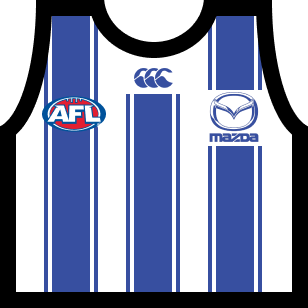
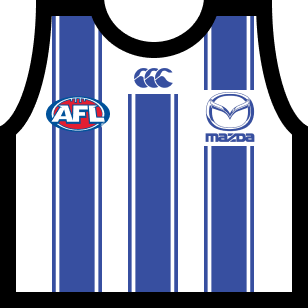
updated kangaroos kits and port kit swapping

diff --git a/docs/js/main.min.js b/docs/js/main.min.js
@@ -1,1 +1,1 @@
-function scroll(){$(window).on("scroll",function(){$(this).scrollTop()>=$(".c-fixture__round").offset().top-500?$(".js-scrollto-fixture").addClass("is-hidden"):$(".js-scrollto-fixture").removeClass("is-hidden")}),$(".js-scrollto-fixture").on("click",function(){$("html, body").animate({scrollTop:$(".js-game-pregame").offset().top-36},{duration:400,specialEasing:"easeInOut"})}),$(".c-fixture__game").each(function(){$(this).hasClass("c-fixture__game--in-progress")&&($(".js-scrollto-fixture").addClass("has-live"),$(".js-scrollto-fixture").on("click",function(){$("html, body").animate({scrollTop:$(".c-fixture__game--in-progress").offset().top-36},{duration:400,specialEasing:"easeInOut"})}))})}function dataFixture(e){$.getJSON("https://statsapi.foxsports.com.au/3.0/api/sports/afl/series/1/seasons/124/fixturesandresults.json?userkey=6B2F4717-A97C-49F6-8514-3600633439B9",function(e){console.log("fixture loaded"),console.log(e);var s=new Date,a=(new Date("2018-04-24"),[]),t=roundCalc(s);for($(".js-fixture-round").text(t),i=0;i<e.length;i++){const m=e[i];m.round.number==t&&a.push(m)}console.log(a);a[8];for(i=0;i<a.length;i++){const m=a[i];fixtureItem(m)}})}function dataLadder(){$.getJSON("https://statsapi.foxsports.com.au/3.0/api/sports/afl/series/1/seasons/123/ladder.json?userkey=6B2F4717-A97C-49F6-8514-3600633439B9",function(e){$(".c-ladder__round");for(console.log(e),i=0;i<e.teams.length;i++){ladderItem(e.teams[i],i+1)}})}function dateTime(e){var s=new Date(e),a=s.getDate();return{day:function(e){var s=e.getDay();return 0==s?"Sunday":1==s?"Monday":2==s?"Tuesday":3==s?"Wednesday":4==s?"Thursday":5==s?"Friday":6==s?"Saturday":void 0}(s),month:function(e){var s=e.getMonth();return 0==s?"Jan":1==s?"Feb":2==s?"Mar":3==s?"Apr":4==s?"May":5==s?"Jun":6==s?"Jul":7==s?"Aug":8==s?"Sep":9==s?"Oct":10==s?"Nov":11==s?"Dec":void 0}(s),date:a,time:function(e){return e.getHours()+":"+("0"+e.getMinutes()).slice(-2)}(s)}}function finals(e){function s(e,s){var a=s,t=dateTime(a.match_start_date),m=e.children(".c-date"),i=e.children(".js-fixture-team-1"),n=e.children(".js-fixture-team-2"),r=e.children(".js-fixture-venue");"Pre Game"==a.match_status?(m.children(".c-date__day").text(t.day),m.children(".c-date__month").text(t.month),m.children(".c-date__date").text(t.date),m.children(".c-date__time").text(t.time)):"Full Time"==a.match_status?(e.addClass("full-time"),m.children(".c-date__day").text(t.day),m.children(".c-date__month").text(t.month),m.children(".c-date__date").text(t.date),m.children(".c-date__time").text("FT")):(e.addClass("live"),m.append('<span class="c-date__live">LIVE</span><span class="c-date__status">'+a.match_status+'</span><span class="c-date__played-time">'+a.match_time+"</span>")),i.children(".js-team-img").attr("src",homeKit(a.team_A.code)),i.children(".js-team-text").text(teamAbrev(a.team_A.code,a.team_A.name)),"Pre Game"!==a.match_status&&i.children(".js-score-text").text("").append(a.team_A.goals+". "+a.team_A.behinds+'. <span class="c-fixture__score-total">'+a.team_A.score+"</span>"),n.children(".js-team-img").attr("src",awayKit(a.team_B.code,a.team_A.code)),n.children(".js-team-text").text(teamAbrev(a.team_B.code,a.team_B.name)),"Pre Game"!==a.match_status&&n.children(".js-score-text").text("").append(a.team_B.goals+". "+a.team_B.behinds+'. <span class="c-fixture__score-total">'+a.team_B.score+"</span>"),r.text(a.venue.name)}function a(e){return"post"==e.match_status_normalised&&e.team_A.score>e.team_B.score?{name:teamAbrev(e.team_A.code),bg:team_bg(e.team_A.code)}:"post"==e.match_status_normalised&&e.team_B.score>e.team_A.score?{name:teamAbrev(e.team_B.code),bg:team_bg(e.team_B.code)}:{name:"?",bg:"img/teams/"}}console.log(e);var t=e[8];$(".js-finals-series-year").text(e[0].season.year),$(".js-premiership-year").text(e[0].season.year),s($(".js-finals-qf1"),e[1]),s($(".js-finals-qf2"),e[3]),s($(".js-finals-ef1"),e[0]),s($(".js-finals-ef2"),e[2]),s($(".js-finals-sf1"),e[4]),s($(".js-finals-sf2"),e[5]),s($(".js-finals-pf1"),e[7]),s($(".js-finals-pf2"),e[6]),s($(".js-finals-gf"),t),$(".js-premiers-name").text(a(t).name),$(".js-premiers-bg").css({"background-image":"url("+a(t).bg+")","background-size":"cover"})}function fixtureItem(e){var s=dateTime(e.match_start_date),a=e.match_status;"Pre Game"==a?$(".js-fixture").before('<div class="c-fixture__game js-game-pregame"><div class= "c-fixture__date c-date" ><span class="c-date__day">'+s.day+'</span><span class="c-date__month">'+s.month+'</span><span class="c-date__date">'+s.date+'</span><span class="c-date__time">'+s.time+'</span></div ><div class="c-fixture__team js-fixture-team-1"><img class="js-team-img" src="'+homeKit(e.team_A.code)+'" /><span class="js-team-text">'+teamAbrev(e.team_A.code)+'</span><span class="c-fixture__score js-score-text">-</span></div><div class="c-fixture__vs">vs</div><div class="c-fixture__team js-fixture-team-2"><img class="js-team-img" src="'+awayKit(e.team_B.code,e.team_A.code)+'" /><span class="js-team-text">'+teamAbrev(e.team_B.code)+'</span><span class="c-fixture__score js-score-text">-</span></div><div class="c-fixture__venue js-fixture-venue">'+e.venue.name+"</div></div>"):"Full Time"==a?$(".js-fixture").before('<div class="c-fixture__game c-fixture__game--completed"><div class= "c-fixture__date c-date" ><span class="c-date__day">'+s.day+'</span><span class="c-date__month">'+s.month+'</span><span class="c-date__date">'+s.date+'</span><span class="c-date__time">FT</span></div ><div class="c-fixture__team js-fixture-team-1"><img class="js-team-img" src="'+homeKit(e.team_A.code)+'" /><span class="js-team-text">'+teamAbrev(e.team_A.code)+'</span><span class="c-fixture__score js-score-text">'+e.team_A.goals+". "+e.team_A.behinds+'. <span class="c-fixture__score-total">'+e.team_A.score+'</span></span></div><div class="c-fixture__vs">vs</div><div class="c-fixture__team js-fixture-team-2"><img class="js-team-img" src="'+awayKit(e.team_B.code,e.team_A.code)+'" /><span class="js-team-text">'+teamAbrev(e.team_B.code)+'</span><span class="c-fixture__score js-score-text">'+e.team_B.goals+". "+e.team_B.behinds+'. <span class="c-fixture__score-total">'+e.team_B.score+'</span></span></div><div class="c-fixture__venue js-fixture-venue">'+e.venue.name+"</div></div>"):$(".js-fixture").before('<div class="c-fixture__game c-fixture__game--in-progress"><div class= "c-fixture__date c-date" ><span class="c-date__live">LIVE</span><span class="c-date__status">'+a+'</span><span class="c-date__time">'+e.match_time+'</span></div ><div class="c-fixture__team js-fixture-team-1"><img class="js-team-img" src="'+homeKit(e.team_A.code)+'" /><span class="js-team-text">'+teamAbrev(e.team_A.code)+'</span><span class="c-fixture__score js-score-text">'+e.team_A.goals+". "+e.team_A.behinds+'. <span class="c-fixture__score-total">'+e.team_A.score+'</span></span></div><div class="c-fixture__vs">vs</div><div class="c-fixture__team js-fixture-team-2"><img class="js-team-img" src="'+awayKit(e.team_B.code,e.team_A.code)+'" /><span class="js-team-text">'+teamAbrev(e.team_B.code)+'</span><span class="c-fixture__score js-score-text">'+e.team_B.goals+". "+e.team_B.behinds+'. <span class="c-fixture__score-total">'+e.team_B.score+'</span></span></div><div class="c-fixture__venue js-fixture-venue">'+e.venue.name+"</div></div>")}function homeKit(e){var s=e;return"ADE"==s?"img/teams/crows-home.png":"BRI"==s?"img/teams/lions-home.png":"CAR"==s?"img/teams/blues-home.png":"COL"==s?"img/teams/magpies-home.png":"ESS"==s?"img/teams/bombers-home.png":"FRE"==s?"img/teams/dockers-home.png":"GEE"==s?"img/teams/cats-home.png":"GCS"==s?"img/teams/suns-home.png":"GWS"==s?"img/teams/gws-home.png":"HAW"==s?"img/teams/hawks-home.png":"MEL"==s?"img/teams/demons-home.png":"NM"==s?"img/teams/kangaroos-home.png":"POR"==s?"img/teams/port-home.png":"RIC"==s?"img/teams/tigers-home.png":"STK"==s?"img/teams/saints-home.png":"SYD"==s?"img/teams/swans-home.png":"WCE"==s?"img/teams/eagles-home.png":"WBD"==s?"img/teams/dogs-home.png":void 0}function awayKit(e,s){var a=e;return"ADE"==a?"GEE"==s||"SYD"==s?"img/teams/crows-home.png":"img/teams/crows-away.png":"BRI"==a?"SYD"==s||"GWS"==s||"GCS"==s||"WCE"==s||"ADE"==s||"FRE"==s||"POR"==s?"img/teams/lions-clash.png":"img/teams/lions-away.png":"CAR"==a?"GEE"==s||"SYD"==s||"HAW"==s||"GCS"==s?"img/teams/blues-home.png":"img/teams/blues-clash.png":"COL"==a?"GEE"==s?"img/teams/magpies-home.png":"img/teams/magpies-clash.png":"ESS"==a?"MEL"==s||"COL"==s||"CAR"==s||"POR"==s||"STK"==s||"RIC"==s?"img/teams/bombers-clash.png":"img/teams/bombers-home.png":"FRE"==a?"img/teams/dockers-away.png":"GEE"==a?"img/teams/cats-home.png":"GCS"==a?"WBD"==s||"CAR"==s||"FRE"==s||"NM"==s||"WCE"==s?"img/teams/suns-home.png":"img/teams/suns-away.png":"GWS"==a?"SYD"==s?"img/teams/gws-home.png":"img/teams/gws-away.png":"HAW"==a?"img/teams/hawks-away.png":"MEL"==a?"img/teams/demons-clash.png":"NM"==a?"img/teams/kangaroos-clash.png":"POR"==a?"GEE"==s||"SYD"==s||"COL"==s||"NM"==s?"img/teams/port-clash.png":"img/teams/port-away.png":"RIC"==a?"img/teams/tigers-away.png":"STK"==a?"img/teams/saints-away.png":"SYD"==a?"img/teams/swans-home.png":"WCE"==a?"HAW"==s?"img/teams/eagles-home.png":"img/teams/eagles-away.png":"WBD"==a?"GEE"==s||"SYD"==s?"img/teams/dogs-home.png":"img/teams/dogs-away.png":void 0}function ladderItem(e,s){$(".c-ladder__item-"+s+" div.c-ladder__team").children("span").text(teamAbrev(e.code)),$(".c-ladder__item-"+s+" div.c-ladder__team").children("img").attr("src",teamImg(e.code)),$(".c-ladder__item-"+s+" div.c-ladder__played").text(e.stats.played),$(".c-ladder__item-"+s+" div.c-ladder__wins").text(e.stats.won),$(".c-ladder__item-"+s+" div.c-ladder__draws").text(e.stats.drawn),$(".c-ladder__item-"+s+" div.c-ladder__losses").text(e.stats.lost),$(".c-ladder__item-"+s+" div.c-ladder__points-for").text(e.stats.for),$(".c-ladder__item-"+s+" div.c-ladder__points-against").text(e.stats.against),$(".c-ladder__item-"+s+" div.c-ladder__percentage").text(e.stats.percentage),$(".c-ladder__item-"+s+" div.c-ladder__points").text(e.stats.points)}function roundCalc(e){var s=new Date(e),a=s.getMonth(),t=s.getDate();return 0==a||1==a&&t<=28||2==a&&t<=25?1:2==a&&t<=31?2:3==a&&t<=8?3:3==a&&t<=15?4:3==a&&t<=25?5:3==a&&t<=29?6:3==a&&t<=31||4==a&&t<=6?7:4==a&&t<=13?8:4==a&&t<=20?9:4==a&&t<=27?10:4==a&&t<=31||5==a&&t<=3?11:5==a&&t<=11?12:5==a&&t<=17?13:5==a&&t<=24?14:5==a&&t<=31||6==a&&t<=1?15:6==a&&t<=8?16:6==a&&t<=15?17:6==a&&t<=22?18:6==a&&t<=29?19:6==a&&t<=31||7==a&&t<=5?20:7==a&&t<=12?21:7==a&&t<=19?22:7==a&&t<=23?23:8==a?23:void 0}function teamAbrev(e,s){var a=e;return"ADE"==a?"Adelaide":"BRI"==a?"Brisbane":"CAR"==a?"Carlton":"COL"==a?"Collingwood":"ESS"==a?"Essendon":"WBD"==a?"W. Bulldogs":"FRE"==a?"Fremantle":"GEE"==a?"Geelong":"GCS"==a?"Gold Coast":"GWS"==a?"Gr. W. Sydney":"HAW"==a?"Hawthorn":"MEL"==a?"Melbourne":"NM"==a?"N. Melbourne":"POR"==a?"Port Adelaide":"RIC"==a?"Richmond":"STK"==a?"St. Kilda":"SYD"==a?"Sydney":"WCE"==a?"West Coast":s}function team_bg(e){return"ADE"==e?"img/teams/crows.svg":"BRI"==e?"img/teams/lions.svg":"CAR"==e?"img/teams/blues.svg":"COL"==e?"img/teams/magpies.svg":"ESS"==e?"img/teams/bombers.svg":"FRE"==e?"img/teams/dockers.svg":"GEE"==e?"img/teams/cats.svg":"GCS"==e?"img/teams/suns.svg":"GWS"==e?"img/teams/gws.svg":"HAW"==e?"img/teams/hawks.svg":"MEL"==e?"img/teams/demons.svg":"NM"==e?"img/teams/kangaroos.svg":"POR"==e?"img/teams/port.svg":"RIC"==e?"img/teams/tigers.svg":"STK"==e?"img/teams/saints.svg":"SYD"==e?"img/teams/swans.svg":"WCE"==e?"img/teams/eagles.svg":"WBD"==e?"img/teams/dogs.svg":void 0}function teamImg(e){return"ADE"==e?"img/teams/crows.png":"BRI"==e?"img/teams/lions.png":"CAR"==e?"img/teams/blues.png":"COL"==e?"img/teams/magpies.png":"ESS"==e?"img/teams/bombers.png":"FRE"==e?"img/teams/dockers.png":"GEE"==e?"img/teams/cats.png":"GCS"==e?"img/teams/suns.png":"GWS"==e?"img/teams/gws.png":"HAW"==e?"img/teams/hawks.png":"MEL"==e?"img/teams/demons.png":"NM"==e?"img/teams/kangaroos.png":"POR"==e?"img/teams/port.png":"RIC"==e?"img/teams/tigers.png":"STK"==e?"img/teams/saints.png":"SYD"==e?"img/teams/swans.png":"WCE"==e?"img/teams/eagles.png":"WBD"==e?"img/teams/dogs.png":void 0}function vertCenter(e,s){var a=e.parent().height();e.css({height:a+"px","line-height":a+"px"}),e.children(s).css({height:e.children(s).height(),"padding-top":(a-e.children(s).height())/2+"px","padding-bottom":(a-e.children(s).height())/2+"px"})}function clearStyles(e,s){e.attr("style",""),s.attr("style","")}dataLadder(),dataFixture();var ladder=function(){var e=$('.c-ladder__team:contains("Greater Western Sydney")');e.children("span").text("GWS"),e.children("img").attr("src","img/teams/gws.svg"),$('.c-ladder__team:contains("Hawthorn")').children("img").attr("src","img/teams/hawks.svg"),$('.c-ladder__team:contains("Gold Coast")').children("img").attr("src","img/teams/suns.svg"),$('.c-ladder__team:contains("Sydney")').children("img").attr("src","img/teams/swans.svg"),$('.c-ladder__team:contains("St Kilda")').children("img").attr("src","img/teams/saints.svg"),$('.c-ladder__team:contains("Richmond")').children("img").attr("src","img/teams/tigers.svg"),$('.c-ladder__team:contains("Essendon")').children("img").attr("src","img/teams/bombers.svg"),$('.c-ladder__team:contains("Geelong")').children("img").attr("src","img/teams/cats.svg"),$('.c-ladder__team:contains("Melbourne")').children("img").attr("src","img/teams/demons.svg"),$('.c-ladder__team:contains("Adelaide")').children("img").attr("src","img/teams/crows.svg"),$('.c-ladder__team:contains("Carlton")').children("img").attr("src","img/teams/blues.svg"),$('.c-ladder__team:contains("Port Adelaide")').children("img").attr("src","img/teams/port.svg"),$('.c-ladder__team:contains("Brisbane")').children("img").attr("src","img/teams/lions.svg"),$('.c-ladder__team:contains("West Coast")').children("img").attr("src","img/teams/eagles.svg"),$('.c-ladder__team:contains("North Melbourne")').children("img").attr("src","img/teams/kangaroos.svg"),$('.c-ladder__team:contains("Collingwood")').children("img").attr("src","img/teams/magpies.svg"),$('.c-ladder__team:contains("Fremantle")').children("img").attr("src","img/teams/dockers.svg"),$('.c-ladder__team:contains("Bulldogs")').children("img").attr("src","img/teams/dogs.svg")};$(window).on("resize",function(){});
+function scroll(){$(window).on("scroll",function(){$(this).scrollTop()>=$(".c-fixture__round").offset().top-500?$(".js-scrollto-fixture").addClass("is-hidden"):$(".js-scrollto-fixture").removeClass("is-hidden")}),$(".js-scrollto-fixture").on("click",function(){$("html, body").animate({scrollTop:$(".js-game-pregame").offset().top-36},{duration:400,specialEasing:"easeInOut"})}),$(".c-fixture__game").each(function(){$(this).hasClass("c-fixture__game--in-progress")&&($(".js-scrollto-fixture").addClass("has-live"),$(".js-scrollto-fixture").on("click",function(){$("html, body").animate({scrollTop:$(".c-fixture__game--in-progress").offset().top-36},{duration:400,specialEasing:"easeInOut"})}))})}function dataFixture(e){$.getJSON("https://statsapi.foxsports.com.au/3.0/api/sports/afl/series/1/seasons/124/fixturesandresults.json?userkey=6B2F4717-A97C-49F6-8514-3600633439B9",function(e){console.log("fixture loaded"),console.log(e);var s=new Date,a=(new Date("2018-04-24"),[]),t=roundCalc(s);for($(".js-fixture-round").text(t),i=0;i<e.length;i++){const m=e[i];m.round.number==t&&a.push(m)}console.log(a);a[8];for(i=0;i<a.length;i++){const m=a[i];fixtureItem(m)}})}function dataLadder(){$.getJSON("https://statsapi.foxsports.com.au/3.0/api/sports/afl/series/1/seasons/123/ladder.json?userkey=6B2F4717-A97C-49F6-8514-3600633439B9",function(e){$(".c-ladder__round");for(console.log(e),i=0;i<e.teams.length;i++){ladderItem(e.teams[i],i+1)}})}function dateTime(e){var s=new Date(e),a=s.getDate();return{day:function(e){var s=e.getDay();return 0==s?"Sunday":1==s?"Monday":2==s?"Tuesday":3==s?"Wednesday":4==s?"Thursday":5==s?"Friday":6==s?"Saturday":void 0}(s),month:function(e){var s=e.getMonth();return 0==s?"Jan":1==s?"Feb":2==s?"Mar":3==s?"Apr":4==s?"May":5==s?"Jun":6==s?"Jul":7==s?"Aug":8==s?"Sep":9==s?"Oct":10==s?"Nov":11==s?"Dec":void 0}(s),date:a,time:function(e){return e.getHours()+":"+("0"+e.getMinutes()).slice(-2)}(s)}}function finals(e){function s(e,s){var a=s,t=dateTime(a.match_start_date),m=e.children(".c-date"),i=e.children(".js-fixture-team-1"),n=e.children(".js-fixture-team-2"),r=e.children(".js-fixture-venue");"Pre Game"==a.match_status?(m.children(".c-date__day").text(t.day),m.children(".c-date__month").text(t.month),m.children(".c-date__date").text(t.date),m.children(".c-date__time").text(t.time)):"Full Time"==a.match_status?(e.addClass("full-time"),m.children(".c-date__day").text(t.day),m.children(".c-date__month").text(t.month),m.children(".c-date__date").text(t.date),m.children(".c-date__time").text("FT")):(e.addClass("live"),m.append('<span class="c-date__live">LIVE</span><span class="c-date__status">'+a.match_status+'</span><span class="c-date__played-time">'+a.match_time+"</span>")),i.children(".js-team-img").attr("src",homeKit(a.team_A.code)),i.children(".js-team-text").text(teamAbrev(a.team_A.code,a.team_A.name)),"Pre Game"!==a.match_status&&i.children(".js-score-text").text("").append(a.team_A.goals+". "+a.team_A.behinds+'. <span class="c-fixture__score-total">'+a.team_A.score+"</span>"),n.children(".js-team-img").attr("src",awayKit(a.team_B.code,a.team_A.code)),n.children(".js-team-text").text(teamAbrev(a.team_B.code,a.team_B.name)),"Pre Game"!==a.match_status&&n.children(".js-score-text").text("").append(a.team_B.goals+". "+a.team_B.behinds+'. <span class="c-fixture__score-total">'+a.team_B.score+"</span>"),r.text(a.venue.name)}function a(e){return"post"==e.match_status_normalised&&e.team_A.score>e.team_B.score?{name:teamAbrev(e.team_A.code),bg:team_bg(e.team_A.code)}:"post"==e.match_status_normalised&&e.team_B.score>e.team_A.score?{name:teamAbrev(e.team_B.code),bg:team_bg(e.team_B.code)}:{name:"?",bg:"img/teams/"}}console.log(e);var t=e[8];$(".js-finals-series-year").text(e[0].season.year),$(".js-premiership-year").text(e[0].season.year),s($(".js-finals-qf1"),e[1]),s($(".js-finals-qf2"),e[3]),s($(".js-finals-ef1"),e[0]),s($(".js-finals-ef2"),e[2]),s($(".js-finals-sf1"),e[4]),s($(".js-finals-sf2"),e[5]),s($(".js-finals-pf1"),e[7]),s($(".js-finals-pf2"),e[6]),s($(".js-finals-gf"),t),$(".js-premiers-name").text(a(t).name),$(".js-premiers-bg").css({"background-image":"url("+a(t).bg+")","background-size":"cover"})}function fixtureItem(e){var s=dateTime(e.match_start_date),a=e.match_status;"Pre Game"==a?$(".js-fixture").before('<div class="c-fixture__game js-game-pregame"><div class= "c-fixture__date c-date" ><span class="c-date__day">'+s.day+'</span><span class="c-date__month">'+s.month+'</span><span class="c-date__date">'+s.date+'</span><span class="c-date__time">'+s.time+'</span></div ><div class="c-fixture__team js-fixture-team-1"><img class="js-team-img" src="'+homeKit(e.team_A.code)+'" /><span class="js-team-text">'+teamAbrev(e.team_A.code)+'</span><span class="c-fixture__score js-score-text">-</span></div><div class="c-fixture__vs">vs</div><div class="c-fixture__team js-fixture-team-2"><img class="js-team-img" src="'+awayKit(e.team_B.code,e.team_A.code)+'" /><span class="js-team-text">'+teamAbrev(e.team_B.code)+'</span><span class="c-fixture__score js-score-text">-</span></div><div class="c-fixture__venue js-fixture-venue">'+e.venue.name+"</div></div>"):"Full Time"==a?$(".js-fixture").before('<div class="c-fixture__game c-fixture__game--completed"><div class= "c-fixture__date c-date" ><span class="c-date__day">'+s.day+'</span><span class="c-date__month">'+s.month+'</span><span class="c-date__date">'+s.date+'</span><span class="c-date__time">FT</span></div ><div class="c-fixture__team js-fixture-team-1"><img class="js-team-img" src="'+homeKit(e.team_A.code)+'" /><span class="js-team-text">'+teamAbrev(e.team_A.code)+'</span><span class="c-fixture__score js-score-text">'+e.team_A.goals+". "+e.team_A.behinds+'. <span class="c-fixture__score-total">'+e.team_A.score+'</span></span></div><div class="c-fixture__vs">vs</div><div class="c-fixture__team js-fixture-team-2"><img class="js-team-img" src="'+awayKit(e.team_B.code,e.team_A.code)+'" /><span class="js-team-text">'+teamAbrev(e.team_B.code)+'</span><span class="c-fixture__score js-score-text">'+e.team_B.goals+". "+e.team_B.behinds+'. <span class="c-fixture__score-total">'+e.team_B.score+'</span></span></div><div class="c-fixture__venue js-fixture-venue">'+e.venue.name+"</div></div>"):$(".js-fixture").before('<div class="c-fixture__game c-fixture__game--in-progress"><div class= "c-fixture__date c-date" ><span class="c-date__live">LIVE</span><span class="c-date__status">'+a+'</span><span class="c-date__time">'+e.match_time+'</span></div ><div class="c-fixture__team js-fixture-team-1"><img class="js-team-img" src="'+homeKit(e.team_A.code)+'" /><span class="js-team-text">'+teamAbrev(e.team_A.code)+'</span><span class="c-fixture__score js-score-text">'+e.team_A.goals+". "+e.team_A.behinds+'. <span class="c-fixture__score-total">'+e.team_A.score+'</span></span></div><div class="c-fixture__vs">vs</div><div class="c-fixture__team js-fixture-team-2"><img class="js-team-img" src="'+awayKit(e.team_B.code,e.team_A.code)+'" /><span class="js-team-text">'+teamAbrev(e.team_B.code)+'</span><span class="c-fixture__score js-score-text">'+e.team_B.goals+". "+e.team_B.behinds+'. <span class="c-fixture__score-total">'+e.team_B.score+'</span></span></div><div class="c-fixture__venue js-fixture-venue">'+e.venue.name+"</div></div>")}function homeKit(e){var s=e;return"ADE"==s?"img/teams/crows-home.png":"BRI"==s?"img/teams/lions-home.png":"CAR"==s?"img/teams/blues-home.png":"COL"==s?"img/teams/magpies-home.png":"ESS"==s?"img/teams/bombers-home.png":"FRE"==s?"img/teams/dockers-home.png":"GEE"==s?"img/teams/cats-home.png":"GCS"==s?"img/teams/suns-home.png":"GWS"==s?"img/teams/gws-home.png":"HAW"==s?"img/teams/hawks-home.png":"MEL"==s?"img/teams/demons-home.png":"NM"==s?"img/teams/kangaroos-home.png":"POR"==s?"img/teams/port-home.png":"RIC"==s?"img/teams/tigers-home.png":"STK"==s?"img/teams/saints-home.png":"SYD"==s?"img/teams/swans-home.png":"WCE"==s?"img/teams/eagles-home.png":"WBD"==s?"img/teams/dogs-home.png":void 0}function awayKit(e,s){var a=e;return"ADE"==a?"GEE"==s||"SYD"==s?"img/teams/crows-home.png":"img/teams/crows-away.png":"BRI"==a?"SYD"==s||"GWS"==s||"GCS"==s||"WCE"==s||"ADE"==s||"FRE"==s||"POR"==s?"img/teams/lions-clash.png":"img/teams/lions-away.png":"CAR"==a?"GEE"==s||"SYD"==s||"HAW"==s||"GCS"==s?"img/teams/blues-home.png":"img/teams/blues-clash.png":"COL"==a?"GEE"==s?"img/teams/magpies-home.png":"img/teams/magpies-clash.png":"ESS"==a?"MEL"==s||"COL"==s||"CAR"==s||"POR"==s||"STK"==s||"RIC"==s?"img/teams/bombers-clash.png":"img/teams/bombers-home.png":"FRE"==a?"img/teams/dockers-away.png":"GEE"==a?"img/teams/cats-home.png":"GCS"==a?"WBD"==s||"CAR"==s||"FRE"==s||"NM"==s||"WCE"==s?"img/teams/suns-home.png":"img/teams/suns-away.png":"GWS"==a?"SYD"==s?"img/teams/gws-home.png":"img/teams/gws-away.png":"HAW"==a?"img/teams/hawks-away.png":"MEL"==a?"img/teams/demons-clash.png":"NM"==a?"img/teams/kangaroos-clash.png":"POR"==a?"ADE"==s||"ESS"==s||"COL"==s||"RIC"==s?"img/teams/port-clash.png":"img/teams/port-home.png":"RIC"==a?"img/teams/tigers-away.png":"STK"==a?"img/teams/saints-away.png":"SYD"==a?"img/teams/swans-home.png":"WCE"==a?"HAW"==s?"img/teams/eagles-home.png":"img/teams/eagles-away.png":"WBD"==a?"GEE"==s||"SYD"==s?"img/teams/dogs-home.png":"img/teams/dogs-away.png":void 0}function ladderItem(e,s){$(".c-ladder__item-"+s+" div.c-ladder__team").children("span").text(teamAbrev(e.code)),$(".c-ladder__item-"+s+" div.c-ladder__team").children("img").attr("src",teamImg(e.code)),$(".c-ladder__item-"+s+" div.c-ladder__played").text(e.stats.played),$(".c-ladder__item-"+s+" div.c-ladder__wins").text(e.stats.won),$(".c-ladder__item-"+s+" div.c-ladder__draws").text(e.stats.drawn),$(".c-ladder__item-"+s+" div.c-ladder__losses").text(e.stats.lost),$(".c-ladder__item-"+s+" div.c-ladder__points-for").text(e.stats.for),$(".c-ladder__item-"+s+" div.c-ladder__points-against").text(e.stats.against),$(".c-ladder__item-"+s+" div.c-ladder__percentage").text(e.stats.percentage),$(".c-ladder__item-"+s+" div.c-ladder__points").text(e.stats.points)}function roundCalc(e){var s=new Date(e),a=s.getMonth(),t=s.getDate();return 0==a||1==a&&t<=28||2==a&&t<=25?1:2==a&&t<=31?2:3==a&&t<=8?3:3==a&&t<=15?4:3==a&&t<=25?5:3==a&&t<=29?6:3==a&&t<=31||4==a&&t<=6?7:4==a&&t<=13?8:4==a&&t<=20?9:4==a&&t<=27?10:4==a&&t<=31||5==a&&t<=3?11:5==a&&t<=11?12:5==a&&t<=17?13:5==a&&t<=24?14:5==a&&t<=31||6==a&&t<=1?15:6==a&&t<=8?16:6==a&&t<=15?17:6==a&&t<=22?18:6==a&&t<=29?19:6==a&&t<=31||7==a&&t<=5?20:7==a&&t<=12?21:7==a&&t<=19?22:7==a&&t<=23?23:8==a?23:void 0}function teamAbrev(e,s){var a=e;return"ADE"==a?"Adelaide":"BRI"==a?"Brisbane":"CAR"==a?"Carlton":"COL"==a?"Collingwood":"ESS"==a?"Essendon":"WBD"==a?"W. Bulldogs":"FRE"==a?"Fremantle":"GEE"==a?"Geelong":"GCS"==a?"Gold Coast":"GWS"==a?"Gr. W. Sydney":"HAW"==a?"Hawthorn":"MEL"==a?"Melbourne":"NM"==a?"N. Melbourne":"POR"==a?"Port Adelaide":"RIC"==a?"Richmond":"STK"==a?"St. Kilda":"SYD"==a?"Sydney":"WCE"==a?"West Coast":s}function team_bg(e){return"ADE"==e?"img/teams/crows.svg":"BRI"==e?"img/teams/lions.svg":"CAR"==e?"img/teams/blues.svg":"COL"==e?"img/teams/magpies.svg":"ESS"==e?"img/teams/bombers.svg":"FRE"==e?"img/teams/dockers.svg":"GEE"==e?"img/teams/cats.svg":"GCS"==e?"img/teams/suns.svg":"GWS"==e?"img/teams/gws.svg":"HAW"==e?"img/teams/hawks.svg":"MEL"==e?"img/teams/demons.svg":"NM"==e?"img/teams/kangaroos.svg":"POR"==e?"img/teams/port.svg":"RIC"==e?"img/teams/tigers.svg":"STK"==e?"img/teams/saints.svg":"SYD"==e?"img/teams/swans.svg":"WCE"==e?"img/teams/eagles.svg":"WBD"==e?"img/teams/dogs.svg":void 0}function teamImg(e){return"ADE"==e?"img/teams/crows.png":"BRI"==e?"img/teams/lions.png":"CAR"==e?"img/teams/blues.png":"COL"==e?"img/teams/magpies.png":"ESS"==e?"img/teams/bombers.png":"FRE"==e?"img/teams/dockers.png":"GEE"==e?"img/teams/cats.png":"GCS"==e?"img/teams/suns.png":"GWS"==e?"img/teams/gws.png":"HAW"==e?"img/teams/hawks.png":"MEL"==e?"img/teams/demons.png":"NM"==e?"img/teams/kangaroos.png":"POR"==e?"img/teams/port.png":"RIC"==e?"img/teams/tigers.png":"STK"==e?"img/teams/saints.png":"SYD"==e?"img/teams/swans.png":"WCE"==e?"img/teams/eagles.png":"WBD"==e?"img/teams/dogs.png":void 0}function vertCenter(e,s){var a=e.parent().height();e.css({height:a+"px","line-height":a+"px"}),e.children(s).css({height:e.children(s).height(),"padding-top":(a-e.children(s).height())/2+"px","padding-bottom":(a-e.children(s).height())/2+"px"})}function clearStyles(e,s){e.attr("style",""),s.attr("style","")}dataLadder(),dataFixture();var ladder=function(){var e=$('.c-ladder__team:contains("Greater Western Sydney")');e.children("span").text("GWS"),e.children("img").attr("src","img/teams/gws.svg"),$('.c-ladder__team:contains("Hawthorn")').children("img").attr("src","img/teams/hawks.svg"),$('.c-ladder__team:contains("Gold Coast")').children("img").attr("src","img/teams/suns.svg"),$('.c-ladder__team:contains("Sydney")').children("img").attr("src","img/teams/swans.svg"),$('.c-ladder__team:contains("St Kilda")').children("img").attr("src","img/teams/saints.svg"),$('.c-ladder__team:contains("Richmond")').children("img").attr("src","img/teams/tigers.svg"),$('.c-ladder__team:contains("Essendon")').children("img").attr("src","img/teams/bombers.svg"),$('.c-ladder__team:contains("Geelong")').children("img").attr("src","img/teams/cats.svg"),$('.c-ladder__team:contains("Melbourne")').children("img").attr("src","img/teams/demons.svg"),$('.c-ladder__team:contains("Adelaide")').children("img").attr("src","img/teams/crows.svg"),$('.c-ladder__team:contains("Carlton")').children("img").attr("src","img/teams/blues.svg"),$('.c-ladder__team:contains("Port Adelaide")').children("img").attr("src","img/teams/port.svg"),$('.c-ladder__team:contains("Brisbane")').children("img").attr("src","img/teams/lions.svg"),$('.c-ladder__team:contains("West Coast")').children("img").attr("src","img/teams/eagles.svg"),$('.c-ladder__team:contains("North Melbourne")').children("img").attr("src","img/teams/kangaroos.svg"),$('.c-ladder__team:contains("Collingwood")').children("img").attr("src","img/teams/magpies.svg"),$('.c-ladder__team:contains("Fremantle")').children("img").attr("src","img/teams/dockers.svg"),$('.c-ladder__team:contains("Bulldogs")').children("img").attr("src","img/teams/dogs.svg")};$(window).on("resize",function(){});

diff --git a/app/js/main.js b/app/js/main.js
@@ -554,10 +554,10 @@ function awayKit(awayTeam, HomeTeam) {
     } else if (team == 'NM') {
         return 'img/teams/kangaroos-clash.png';
     } else if (team == 'POR') {
-        if (HomeTeam == 'GEE' || HomeTeam == 'SYD' || HomeTeam == 'COL' || HomeTeam == 'NM') {
+        if (HomeTeam == 'ADE' || HomeTeam == 'ESS' || HomeTeam == 'COL' || HomeTeam == 'RIC') {
             return 'img/teams/port-clash.png'
         } else {
-            return 'img/teams/port-away.png';
+            return 'img/teams/port-home.png';
         }
     } else if (team == 'RIC') {
         return 'img/teams/tigers-away.png';

diff --git a/app/js/_dev/_functions/_kit-img.js b/app/js/_dev/_functions/_kit-img.js
@@ -98,10 +98,10 @@ function awayKit(awayTeam, HomeTeam) {
     } else if (team == 'NM') {
         return 'img/teams/kangaroos-clash.png';
     } else if (team == 'POR') {
-        if (HomeTeam == 'GEE' || HomeTeam == 'SYD' || HomeTeam == 'COL' || HomeTeam == 'NM') {
+        if (HomeTeam == 'ADE' || HomeTeam == 'ESS' || HomeTeam == 'COL' || HomeTeam == 'RIC') {
             return 'img/teams/port-clash.png'
         } else {
-            return 'img/teams/port-away.png';
+            return 'img/teams/port-home.png';
         }
     } else if (team == 'RIC') {
         return 'img/teams/tigers-away.png';
